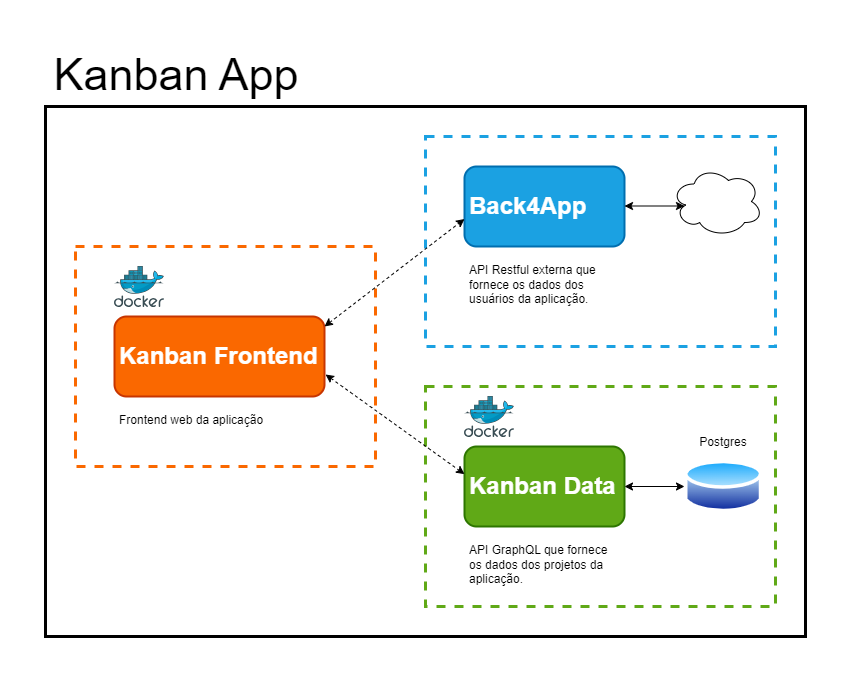
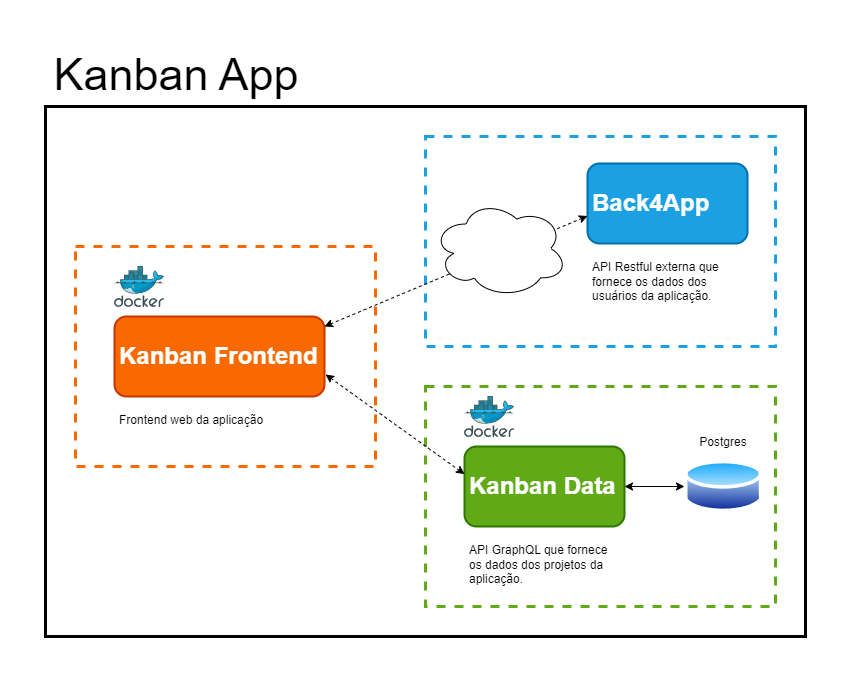
chore: atualização na imagem e README

Changed region(s): [[0.52, 0.21, 0.8871, 0.45], [0.3671, 0.45, 0.3976, 0.48]]

diff --git a/README.md b/README.md
@@ -1,15 +1,15 @@
-# Kanban MS (Micro Services) 
+# Kanban Deploy
 <img src="images/diagrama.png" alt="Diagrama de implantação">
 
-> Projeto de implantação por meio de orquestração com Docker Compose. O propósito deste projeto é realizar a implantação local dos micro-serviços: [Kanban Frontend](https://github.com/bpbastos/kanban-ms/tree/main/kanban-frontend) e [Kanban Data](https://github.com/bpbastos/kanban-ms/tree/main/kanban-data), ambos encontrados nesse repositório, além de configurá-los para utilizar o serviço de gerenciamento de usuários externo, o Back4app (disponível em https://back4app.com). Esses três micro-serviços fazem parte da aplicação web de gestão de projetos baseada no método Kanban. 
+> Projeto de implantação por meio de orquestração com Docker Compose. O propósito deste projeto é realizar a implantação local dos micro-serviços: [Kanban Frontend](https://github.com/bpbastos/kanban-frontend.git) e [Kanban Data](https://github.com/bpbastos/kanban-data.git), além de configurá-los para utilizar o serviço de gerenciamento de usuários externo, o [Back4app](https://back4app.com). Esses três micro-serviços fazem parte da SPA de gestão de projetos baseada no método Kanban.
 
 > Projeto de implantação desenvolvido como uma parte do trabalho de conclusão do terceiro e último módulo - Desenvolvimento Backend Avançado - da Pós-Graduação em Desenvolvimento FullStack da PUC-RIO. 
 
 ## Todo
 
-- [ ] Separar projetos em repositórios git diferentes
 - [ ] Desenvolver API Gateway (Apollo Federation)
 - [ ] Substituir o Back4app pelo projeto open source Parse Server - https://github.com/parse-community/parse-server
+- [x] ~~Separar projetos em repositórios git diferentes~~
 
 ## 💻 Pré-requisitos
 
@@ -34,12 +34,12 @@ RESTAPIKEY
 
 Faça clone do projeto:
 ```
-git clone https://github.com/bpbastos/kanban-ms.git
+git clone https://github.com/bpbastos/kanban-deploy.git
 ```
 
 Acesse o diretório do projeto com:
 ```
-cd kanban-ms
+cd kanban-deploy
 ```
 
 Crie um arquivo .env no diretório raiz do projeto com as seguintes variáveis:
@@ -68,6 +68,10 @@ NUXT_SECRET=chave-com-32-caracteres
 No diretório raiz, execute:
 ```sh
 docker compose up -d
+```
+
+Aguarde alguns segundos para inicialização do BD e execute:
+```sh
 docker compose exec data python create_db.py
 ```
 
